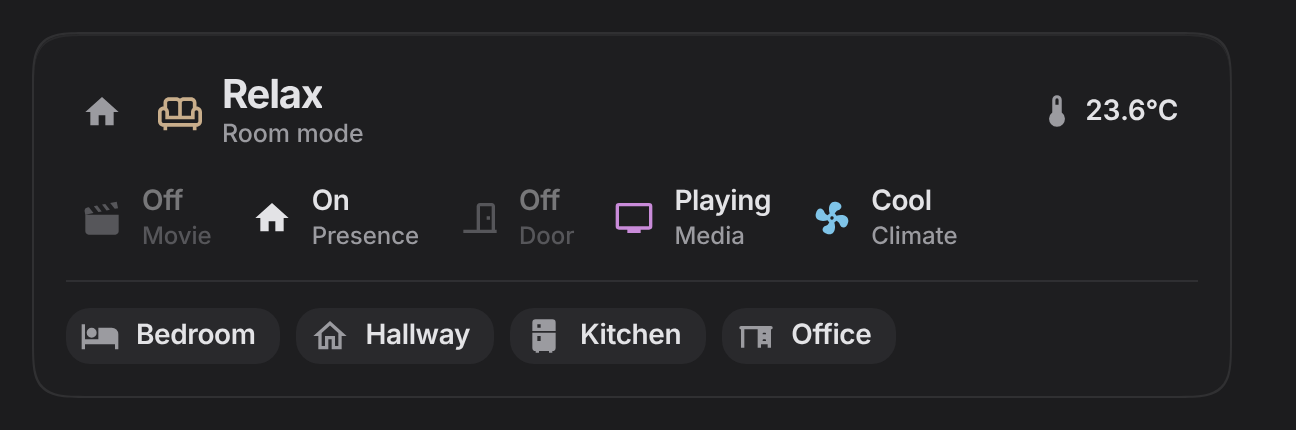
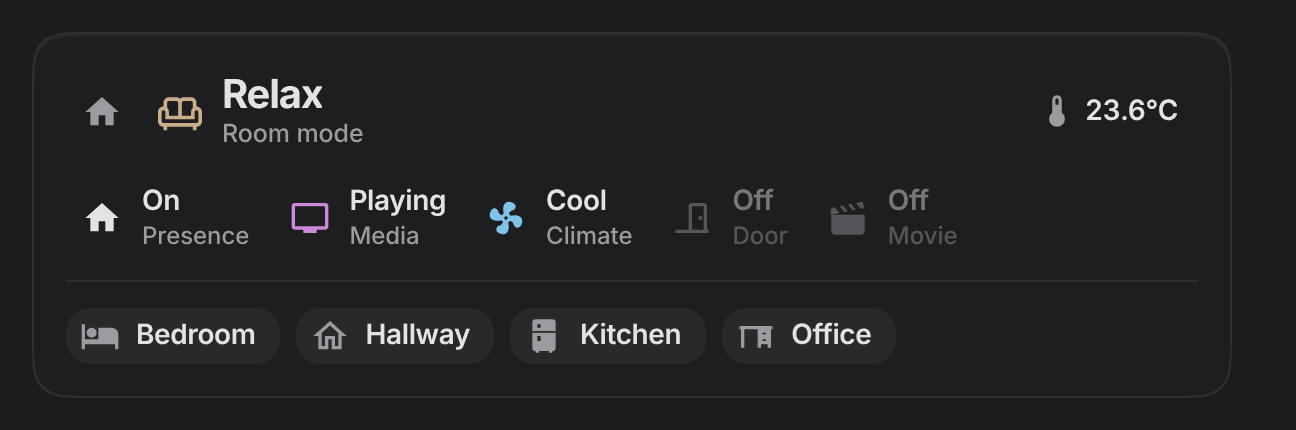
Badges: what is relevant comes first (0.20.2)
The room tile, room header and section title share one badge order that follows the states: the room tile's lights toggle first, then everything active (a tripped leak or smoke alarm, presence, an open door, the rest), then everything idle (presence, door, the rest). The section title no longer keeps presence and the door at the end.

Changed region(s): [[0.0617, 0.4233, 0.7407, 0.5744]]

diff --git a/dist/savvy-cards.js b/dist/savvy-cards.js
@@ -1,7 +1,7 @@
-/*! Savvy Cards v0.20.1 | MIT License | built from src/ by build.mjs, do not edit */
+/*! Savvy Cards v0.20.2 | MIT License | built from src/ by build.mjs, do not edit */
 (() => {
 "use strict";
-const SAVVY_VERSION = "0.20.1";
+const SAVVY_VERSION = "0.20.2";
 
 // ===== core/00-base.js =====
 // ---------------------------------------------------------------------------------------
@@ -634,6 +634,9 @@ function asItems(v) {
 // tile cards. All of it is computed from states and the registries: no helper needed.
 //
 // Badges (a room's row of little status icons) follow one rule everywhere:
+//   order:          what is relevant comes first. The room tile's lights toggle leads (it is the one
+//                   you tap); then everything active (a tripped leak or smoke alarm first, then presence,
+//                   an open door, the rest); then everything idle (presence, door, the rest).
 //   entities:       pinned, in this order, always shown (dimmed when idle)
 //   auto_discover:  true (default) adds what the area has, one badge per kind; presence and
 //                   doors always show, the rest only while they're doing something.
@@ -679,7 +682,19 @@ const isGroup = (st) => Array.isArray(st?.attributes.entity_id) || st?.attribute
 // The badge row for an area: [{ key, entity, ids, kind, on, pinned, cfg }]
 // opts.idle: every kind the area has, active or not (the room card's full sensor row)
 // opts.alwaysKinds: kind keys that show even when idle, besides presence and doors
+// opts.lead: an entity whose badge always comes first (the room tile's lights toggle)
 function roomBadges(hass, area, cfg = {}, opts = {}) {
+  return orderBadges(collectBadges(hass, area, cfg, opts), opts.lead);
+}
+
+// active before idle; within each, alerts, presence, doors, then the rest as they were found
+const BADGE_RANK = { presence: 1, door: 2 };
+function orderBadges(list, lead) {
+  const rank = (b) => (lead && b.entity === lead ? -1 : (b.on ? 0 : 10) + (b.on && b.kind?.critical ? 0 : BADGE_RANK[b.kind?.key] ?? 3));
+  return list.map((b, i) => ({ b, i, r: rank(b) })).sort((x, y) => x.r - y.r || x.i - y.i).map((x) => x.b);
+}
+
+function collectBadges(hass, area, cfg, opts) {
   const out = [], pinnedIds = new Set(), pinnedKinds = new Set();
   for (const item of asItems(cfg.entities)) {
     const st = hass.states[item.entity];
@@ -18635,7 +18650,7 @@ class SavvySectionTitleCard extends SavvyCard {
 
   _renderBadges() {
     const h = this._hass, found = roomBadges(h, this._config.area, this._config, { alwaysKinds: TRIO });
-    const list = [...found.filter((b) => b.pinned), ...found.filter((b) => !b.pinned && !TRIO.includes(b.key)), ...TRIO.map((k) => found.find((b) => !b.pinned && b.key === k)).filter(Boolean)];
+    const list = found;     // already in the shared order: active first, then presence, door, the rest
     const seen = new Set(), red = MQ.reduced.matches;
     for (const b of list) {
       seen.add(b.key);
@@ -20684,7 +20699,7 @@ class SavvyRoomTile extends SavvyCard {
   }
 
   _renderBadges() {
-    const h = this._hass, c = this._config, list = roomBadges(h, c.area, c);
+    const h = this._hass, c = this._config, list = roomBadges(h, c.area, c, { lead: c.toggle || asItems(c.entities).find((i) => i.name === "Light")?.entity });
     const seen = new Set(), red = this._reduced, first = this._first;
     for (const b of list) {
       seen.add(b.key);

diff --git a/src/core/25-rooms.js b/src/core/25-rooms.js
@@ -3,6 +3,9 @@
 // tile cards. All of it is computed from states and the registries: no helper needed.
 //
 // Badges (a room's row of little status icons) follow one rule everywhere:
+//   order:          what is relevant comes first. The room tile's lights toggle leads (it is the one
+//                   you tap); then everything active (a tripped leak or smoke alarm first, then presence,
+//                   an open door, the rest); then everything idle (presence, door, the rest).
 //   entities:       pinned, in this order, always shown (dimmed when idle)
 //   auto_discover:  true (default) adds what the area has, one badge per kind; presence and
 //                   doors always show, the rest only while they're doing something.
@@ -48,7 +51,19 @@ const isGroup = (st) => Array.isArray(st?.attributes.entity_id) || st?.attribute
 // The badge row for an area: [{ key, entity, ids, kind, on, pinned, cfg }]
 // opts.idle: every kind the area has, active or not (the room card's full sensor row)
 // opts.alwaysKinds: kind keys that show even when idle, besides presence and doors
+// opts.lead: an entity whose badge always comes first (the room tile's lights toggle)
 function roomBadges(hass, area, cfg = {}, opts = {}) {
+  return orderBadges(collectBadges(hass, area, cfg, opts), opts.lead);
+}
+
+// active before idle; within each, alerts, presence, doors, then the rest as they were found
+const BADGE_RANK = { presence: 1, door: 2 };
+function orderBadges(list, lead) {
+  const rank = (b) => (lead && b.entity === lead ? -1 : (b.on ? 0 : 10) + (b.on && b.kind?.critical ? 0 : BADGE_RANK[b.kind?.key] ?? 3));
+  return list.map((b, i) => ({ b, i, r: rank(b) })).sort((x, y) => x.r - y.r || x.i - y.i).map((x) => x.b);
+}
+
+function collectBadges(hass, area, cfg, opts) {
   const out = [], pinnedIds = new Set(), pinnedKinds = new Set();
   for (const item of asItems(cfg.entities)) {
     const st = hass.states[item.entity];

diff --git a/src/cards/section-title.js b/src/cards/section-title.js
@@ -208,7 +208,7 @@ class SavvySectionTitleCard extends SavvyCard {
 
   _renderBadges() {
     const h = this._hass, found = roomBadges(h, this._config.area, this._config, { alwaysKinds: TRIO });
-    const list = [...found.filter((b) => b.pinned), ...found.filter((b) => !b.pinned && !TRIO.includes(b.key)), ...TRIO.map((k) => found.find((b) => !b.pinned && b.key === k)).filter(Boolean)];
+    const list = found;     // already in the shared order: active first, then presence, door, the rest
     const seen = new Set(), red = MQ.reduced.matches;
     for (const b of list) {
       seen.add(b.key);

diff --git a/src/cards/tile.js b/src/cards/tile.js
@@ -418,7 +418,7 @@ class SavvyRoomTile extends SavvyCard {
   }
 
   _renderBadges() {
-    const h = this._hass, c = this._config, list = roomBadges(h, c.area, c);
+    const h = this._hass, c = this._config, list = roomBadges(h, c.area, c, { lead: c.toggle || asItems(c.entities).find((i) => i.name === "Light")?.entity });
     const seen = new Set(), red = this._reduced, first = this._first;
     for (const b of list) {
       seen.add(b.key);

diff --git a/README.md b/README.md
@@ -1644,20 +1644,27 @@ chip's defaults follow its domain: a switch toggles, a button presses, a select 
 
 ### Badges
 
-The home header, room header, section title and room tile show what a room has. `entities` pins yours
-first. With `auto_discover` on (the default) the area's own follow: presence and doors always, and media,
+The home header, room header, section title and room tile show what a room has. `entities` pins yours.
+With `auto_discover` on (the default) the area's own join them: presence and doors always, and media,
 locks, climate, fans, covers, windows, leaks and smoke while they are active.
+
+What is relevant comes first, and the order follows the states as they change:
+
+1. On the room tile, the room's lights toggle (`toggle`, or the settings' `light_state`), so it is always in the same place to tap.
+2. Everything active: a tripped leak or smoke alarm, then presence, then an open door, then the rest.
+3. Everything idle: presence, then the door, then the rest.
+
+So when nobody is in the room and the door is shut, the TV that is playing comes first.
 
 | Option | Type | Default | What it does |
 |---|---|---|---|
-| `entities` | chips | none | Pinned badges, first and always shown. Never merged or ignored. |
+| `entities` | chips | none | Pinned badges, always shown, in the order above. Never merged or ignored. |
 | `auto_discover` | boolean | `true` | Add what the area has. `false` leaves the pinned ones and the temperature. |
 | `exclude_kinds` | list of kinds | none | Kinds never discovered. |
 | `include` | list of entities | none | Entities to treat as in this area (a lock with no area). |
 | `exclude` | list of entities | none | Entities never discovered. The settings' `ignore.entities` and the room's `exclude` are added to it; `exclude: false` opts out. |
 
-On the section title the order is fixed: temperature at the right edge, then presence, then door and
-window, then whatever else is active.
+On the section title the temperature ends the row.
 
 ### Popups
 

diff --git a/CHANGELOG.md b/CHANGELOG.md
@@ -1,5 +1,13 @@
 # Changelog
 
+## 0.20.2
+
+- **Badges: what is relevant comes first.** The room tile, room header and section title order their badges
+  the same way, and follow the states as they change: the room tile's lights toggle first (it is the one you
+  tap), then everything active (a tripped leak or smoke alarm, presence, an open door, the rest), then
+  everything idle (presence, door, the rest). With nobody in the room and the door shut, the TV that is
+  playing comes first. The section title no longer keeps presence and the door at the end.
+
 ## 0.20.1
 
 - **Lights:** a lamp that only switches fills its row while it is on, the way one at 100% does, so on reads at a
